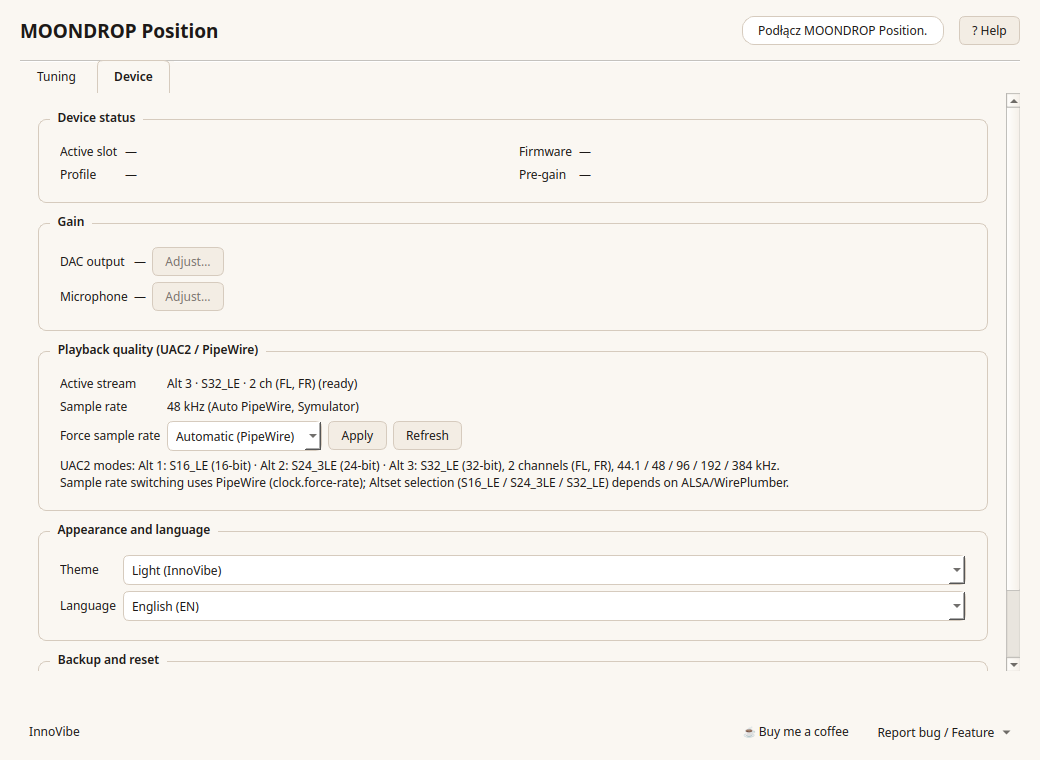
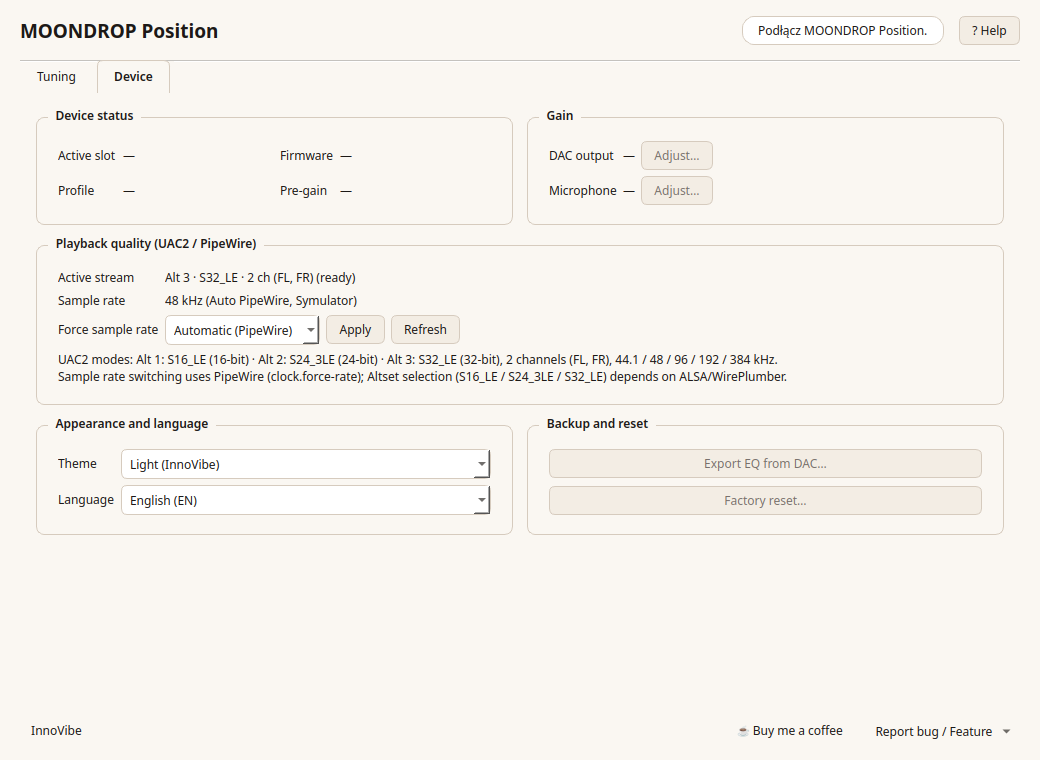
Improve Apply/Wgraj button padding and use 2-column zero-scroll Device dashboard

diff --git a/skrypty/position_gui.py b/skrypty/position_gui.py
@@ -105,7 +105,7 @@ PROFILE_ROLE = Qt.ItemDataRole.UserRole
 PATH_ROLE = Qt.ItemDataRole.UserRole + 1
 PRIMARY_ACTION_STYLE = (
     "QPushButton:enabled { background: palette(highlight); color: palette(highlighted-text);"
-    " border: 1px solid palette(highlight); border-radius: 6px; padding: 6px 14px; font-weight: 600; }"
+    " border: 1px solid palette(highlight); border-radius: 6px; padding: 7px 18px; font-weight: 600; }"
     "QPushButton:focus { border: 1px solid palette(text); }"
 )
 APP_STYLE = """
@@ -214,8 +214,8 @@ SEGMENT_BUTTON_STYLE = (
 STATUS_PILL_STYLE = "border: 1px solid palette(mid); border-radius: 12px; padding: 4px 12px; background: palette(base);"
 FOOTER_BUTTON_STYLE = (
     "QPushButton, QToolButton { border: 1px solid transparent; border-radius: 6px;"
-    " padding: 3px 8px; background: transparent; }"
-    'QToolButton[popupMode="2"] { padding-right: 20px; }'
+    " padding: 4px 10px; background: transparent; }"
+    'QToolButton[popupMode="2"] { padding-right: 22px; }'
     "QPushButton:hover, QToolButton:hover { border-color: palette(highlight); background: palette(base); }"
 )
 
@@ -2333,9 +2333,12 @@ class ProfilesWindow(QWidget):
         layout.addWidget(self.tabs, 1)
 
         device_page = QWidget()
-        device_layout = QVBoxLayout(device_page)
-        device_layout.setContentsMargins(18, 16, 18, 16)
-        device_layout.setSpacing(10)
+        device_layout = QGridLayout(device_page)
+        device_layout.setContentsMargins(16, 14, 16, 12)
+        device_layout.setHorizontalSpacing(14)
+        device_layout.setVerticalSpacing(10)
+        device_layout.setColumnStretch(0, 1)
+        device_layout.setColumnStretch(1, 1)
         self.device_box = QGroupBox(tr("device.read_settings"))
         details = QGridLayout(self.device_box)
         details.setColumnStretch(1, 1)
@@ -2383,7 +2386,8 @@ class ProfilesWindow(QWidget):
         self.defaults_button = QPushButton(tr("device.factory_reset"))
         self.defaults_button.setEnabled(False)
         self.maintenance_box = QGroupBox(tr("device.backup_group"))
-        device_actions = QHBoxLayout(self.maintenance_box)
+        device_actions = QVBoxLayout(self.maintenance_box)
+        device_actions.setSpacing(8)
         device_actions.addWidget(self.backup_button)
         device_actions.addWidget(self.defaults_button)
         device_actions.addStretch()
@@ -2447,12 +2451,12 @@ class ProfilesWindow(QWidget):
         self.language_combo.currentIndexChanged.connect(self.change_language)
         lang_form.addRow(self.language_label, self.language_combo)
 
-        device_layout.addWidget(self.device_box)
-        device_layout.addWidget(self.gains_box)
-        device_layout.addWidget(self.playback_box)
-        device_layout.addWidget(self.language_box)
-        device_layout.addWidget(self.maintenance_box)
-        device_layout.addStretch()
+        device_layout.addWidget(self.device_box, 0, 0)
+        device_layout.addWidget(self.gains_box, 0, 1)
+        device_layout.addWidget(self.playback_box, 1, 0, 1, 2)
+        device_layout.addWidget(self.language_box, 2, 0)
+        device_layout.addWidget(self.maintenance_box, 2, 1)
+        device_layout.setRowStretch(3, 1)
 
         device_scroll = QScrollArea()
         device_scroll.setFrameShape(QScrollArea.Shape.NoFrame)
@@ -2593,8 +2597,8 @@ class ProfilesWindow(QWidget):
         self.edit_button = QPushButton(tr("actions.edit_eq"))
         self.apply_button = QPushButton(tr("actions.apply_dac"))
         self.apply_button.setStyleSheet(PRIMARY_ACTION_STYLE)
-        self.apply_button.setMinimumWidth(125)
-        self.apply_button.setMinimumHeight(32)
+        self.apply_button.setMinimumWidth(148)
+        self.apply_button.setMinimumHeight(34)
         self.apply_button.setEnabled(False)
         library_actions.addWidget(self.add_button)
         library_actions.addWidget(self.more_button)
